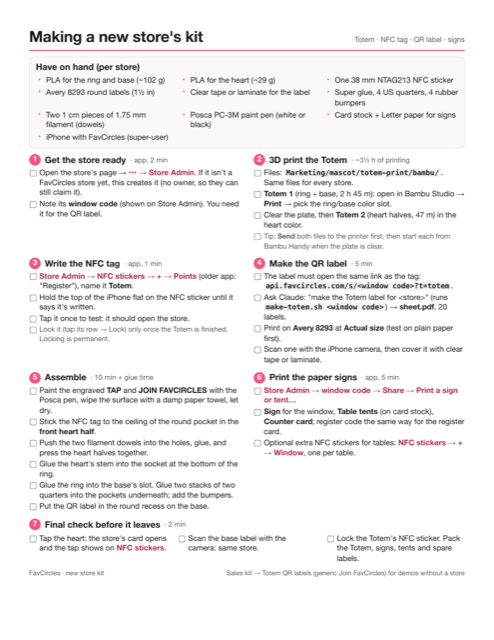
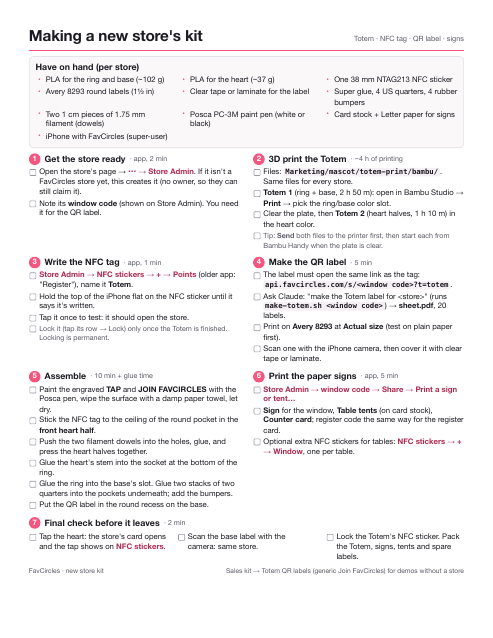
Store kit one-pager: puffy Totem heart print time and filament (1 h 10 m, ~37 g) (Wes, 2026-11-21)
Claude-Session: https://claude.ai/code/session_01GsRjBSc7bE1cK9TEExjnkh

diff --git a/Marketing/demo guides/store-setup-checklist.html b/Marketing/demo guides/store-setup-checklist.html
@@ -36,7 +36,7 @@
     <h2 style="margin-bottom:3px">Have on hand (per store)</h2>
     <ul class="plain cols">
       <li>PLA for the ring and base (~102 g)</li>
-      <li>PLA for the heart (~29 g)</li>
+      <li>PLA for the heart (~37 g)</li>
       <li>One 38 mm NTAG213 NFC sticker</li>
       <li>Avery 8293 round labels (1½ in)</li>
       <li>Clear tape or laminate for the label</li>
@@ -57,11 +57,11 @@
   </section>
 
   <section>
-    <h2><span class="n">2</span>3D print the Totem <span class="when">· ~3½ h of printing</span></h2>
+    <h2><span class="n">2</span>3D print the Totem <span class="when">· ~4 h of printing</span></h2>
     <ul>
       <li>Files: <code>Marketing/mascot/totem-print/bambu/</code>. Same files for every store.</li>
-      <li><b>Totem 1</b> (ring + base, 2 h 45 m): open in Bambu Studio → <b>Print</b> → pick the ring/base color slot.</li>
-      <li>Clear the plate, then <b>Totem 2</b> (heart halves, 47 m) in the heart color.</li>
+      <li><b>Totem 1</b> (ring + base, 2 h 50 m): open in Bambu Studio → <b>Print</b> → pick the ring/base color slot.</li>
+      <li>Clear the plate, then <b>Totem 2</b> (heart halves, 1 h 10 m) in the heart color.</li>
       <li class="note">Tip: <b>Send</b> both files to the printer first, then start each from Bambu Handy when the plate is clear.</li>
     </ul>
   </section>
